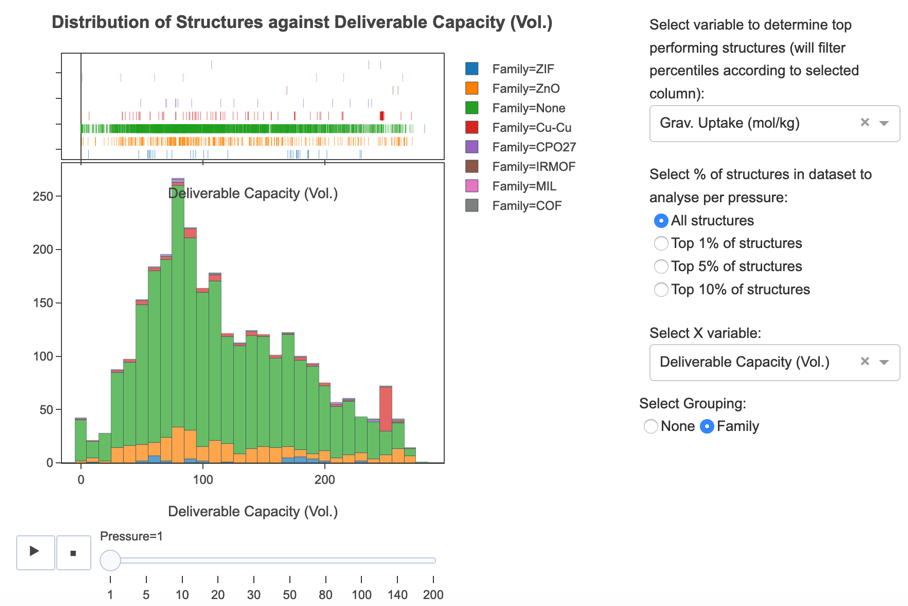
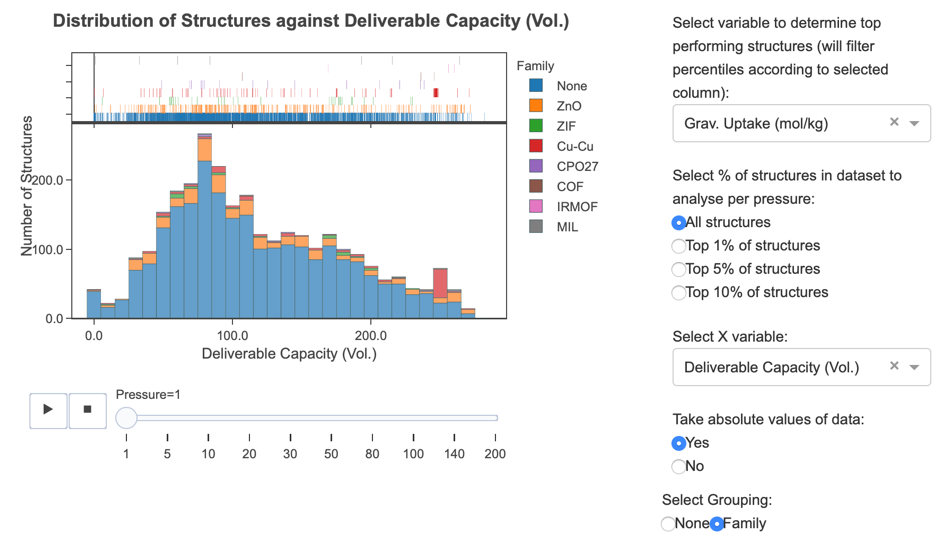
Deployed 4393a5a with MkDocs version: 1.1

diff --git a/index.html b/index.html
@@ -177,7 +177,7 @@
 <strong>2.</strong>  The uploaded datasheet must have the structure name or identifier on its first column (shown in table 1). <br>
 <strong>3.</strong>  The uploaded datasheet must be completely populated (no blank cells). Blank cells can be replaced to ‘0’ using the ‘Replace All’ function in Excel <br>
 <strong>4.</strong>  If required, data must be transposed so that there is a single column stating the variables simulated with a column of the pressures used. Example data files before e.g. <code>AAML_Oxygen_Raw_Data.csv</code> and after transposition <code>AAML_Oxygen_Data.csv</code> can be found <a href="https://github.com/aaml-analytics/mof-explorer/tree/master/sample-data">here</a> <br>
-<strong>5.</strong> For the MOF Explorer Animation, pressures for the pressure frame must have the column heading ‘Pressure’ <br>
+<strong>5.</strong> For the MOF Explorer Animation, pressures for the pressure frame must have the column heading ‘Pressure’. Include this column even if your data does not have multiple pressures and state the pressure your simulation has run on. <br>
 <strong>6.</strong>  If you have the Structure Groupings (MOF families for example) in your dataset, the column must have the heading ‘Family’ (shown in table 1). <br>
 Example files showing datasets before and after being transposed can be seen in the <a href="https://github.com/aaml-analytics/mof-explorer/tree/master/sample-data">GitHub repository</a>. Excels formatting capabilities, Bash and Python were used to transpose and fit aforementioned files to the above criteria. <br></p>
 <p><strong><em>Table 1: Example File Upload</em></strong></p>
@@ -418,7 +418,7 @@ Populate ALL the dropdowns and radio items to produce your plot. The tab of the 
 <p><br>
 <sup>1</sup> If you have spaces or special characters (including -), these must be wrapped in quotes. Single quotes, double quotes, or backticks work. If you have quotes in the string, you can use a different quote, or escape the quote character. E.g. ‘Hello “There”! ’and “ Hello \ ”There! \ ” ” </p>
 <h2 id="statistical-analysis-of-top-structures"><strong>Statistical Analysis of Top Structures</strong></h2>
-<p>All structures, or top performing structures (1%, 5% or 10% of all structures) can be analysed in accordance to a set variable decided by the user e.g. Deliverable Capacity. In the violin plot, geometric properties can then be analysed against pressure to determine Q1, Q3, IQR, mean, median, maximum and minimum points for a dataset of the users choice, alongside the distribution of MOFs in said violin plot. In the distribution plot, the number of structures against a variable in the users data frame can be analysed to determine the spread of structures in the users data. The distribution can be further filtered by MOF families (if the user has uploaded this information in its data frame). An animation feature is also available to view these frames in accordance to pressure. <br></p>
+<p>All structures, or top performing structures (1%, 5% or 10% of all structures) can be analysed in accordance to a set variable decided by the user e.g. Deliverable Capacity. In the violin plot, geometric properties can then be analysed against pressure to determine Q1, Q3, IQR, mean, median, maximum and minimum points for a dataset of the users choice, alongside the distribution of MOFs in said violin plot. In the distribution plot, the number of structures against a variable in the users data frame can be analysed to determine the spread of structures in the users data. The user can also decide if they would like the absolute data or original data to be analysed. The distribution can be further filtered by MOF families (if the user has uploaded this information in its data frame). An animation feature is also available to view these frames in accordance to pressure. <br></p>
 <h3 id="violin-plot"><strong>Violin Plot</strong></h3>
 <p><p>
   <img width="350" height="200" src="https://raw.githubusercontent.com/aaml-analytics/mof-explorer/master/MkDocs/violin-plot.png">
@@ -510,5 +510,5 @@ CB3 0AS</p>
 
 <!--
 MkDocs version : 1.1
-Build Date UTC : 2020-03-05 18:02:01
+Build Date UTC : 2020-04-14 13:22:03
 -->
